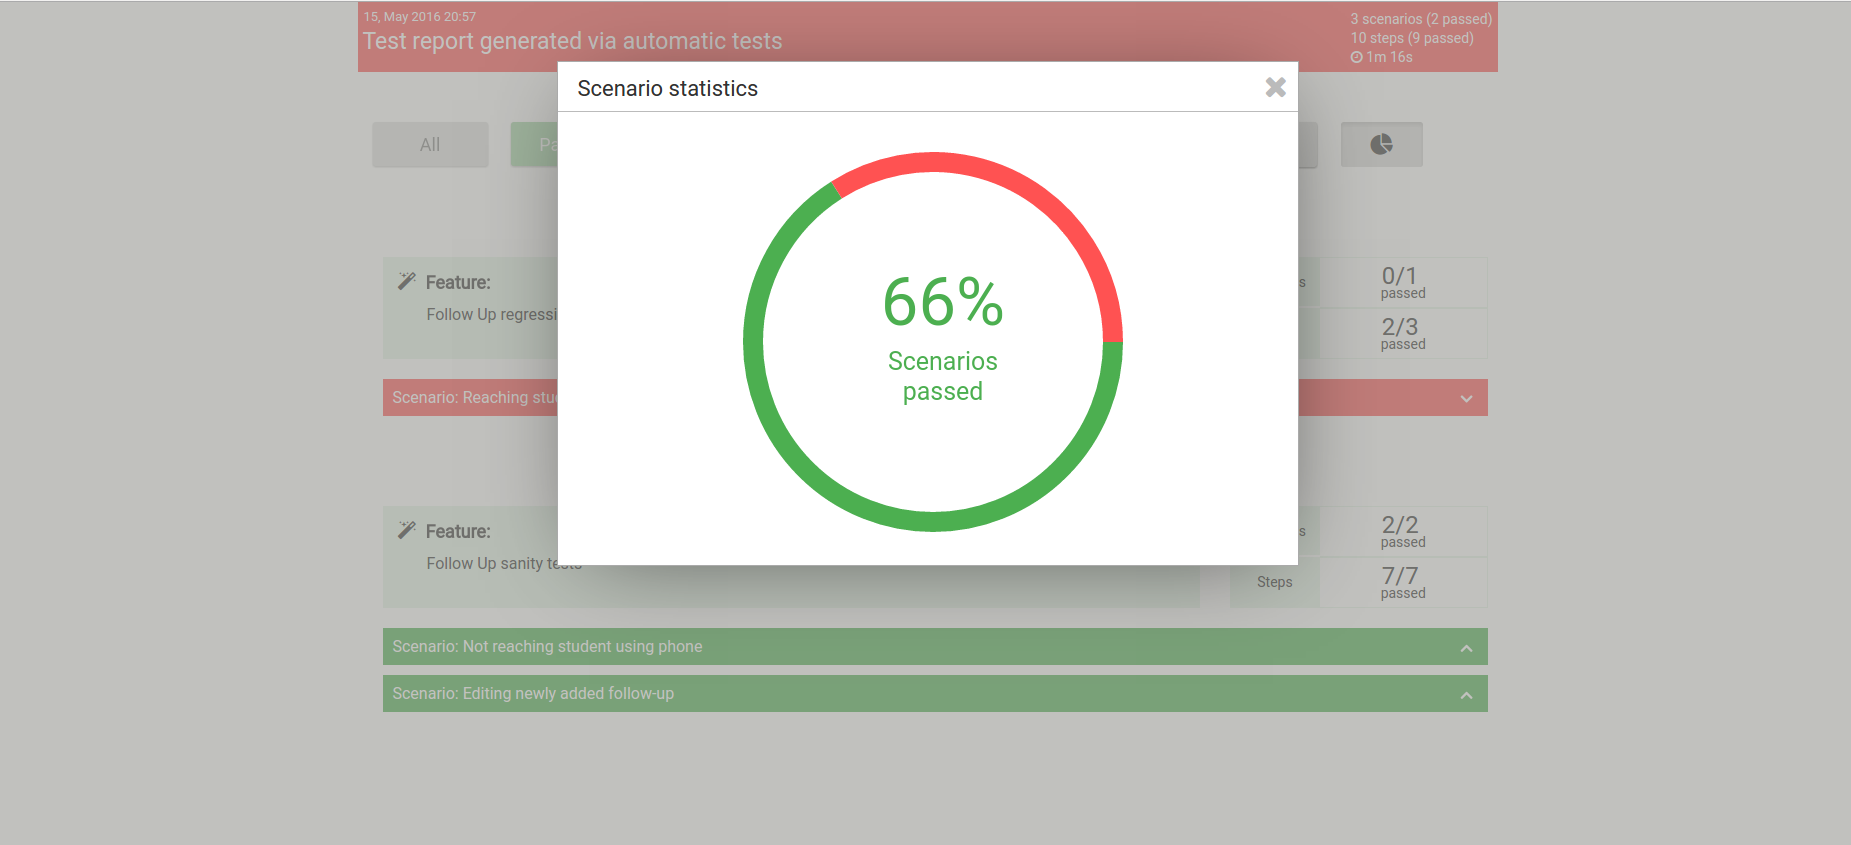
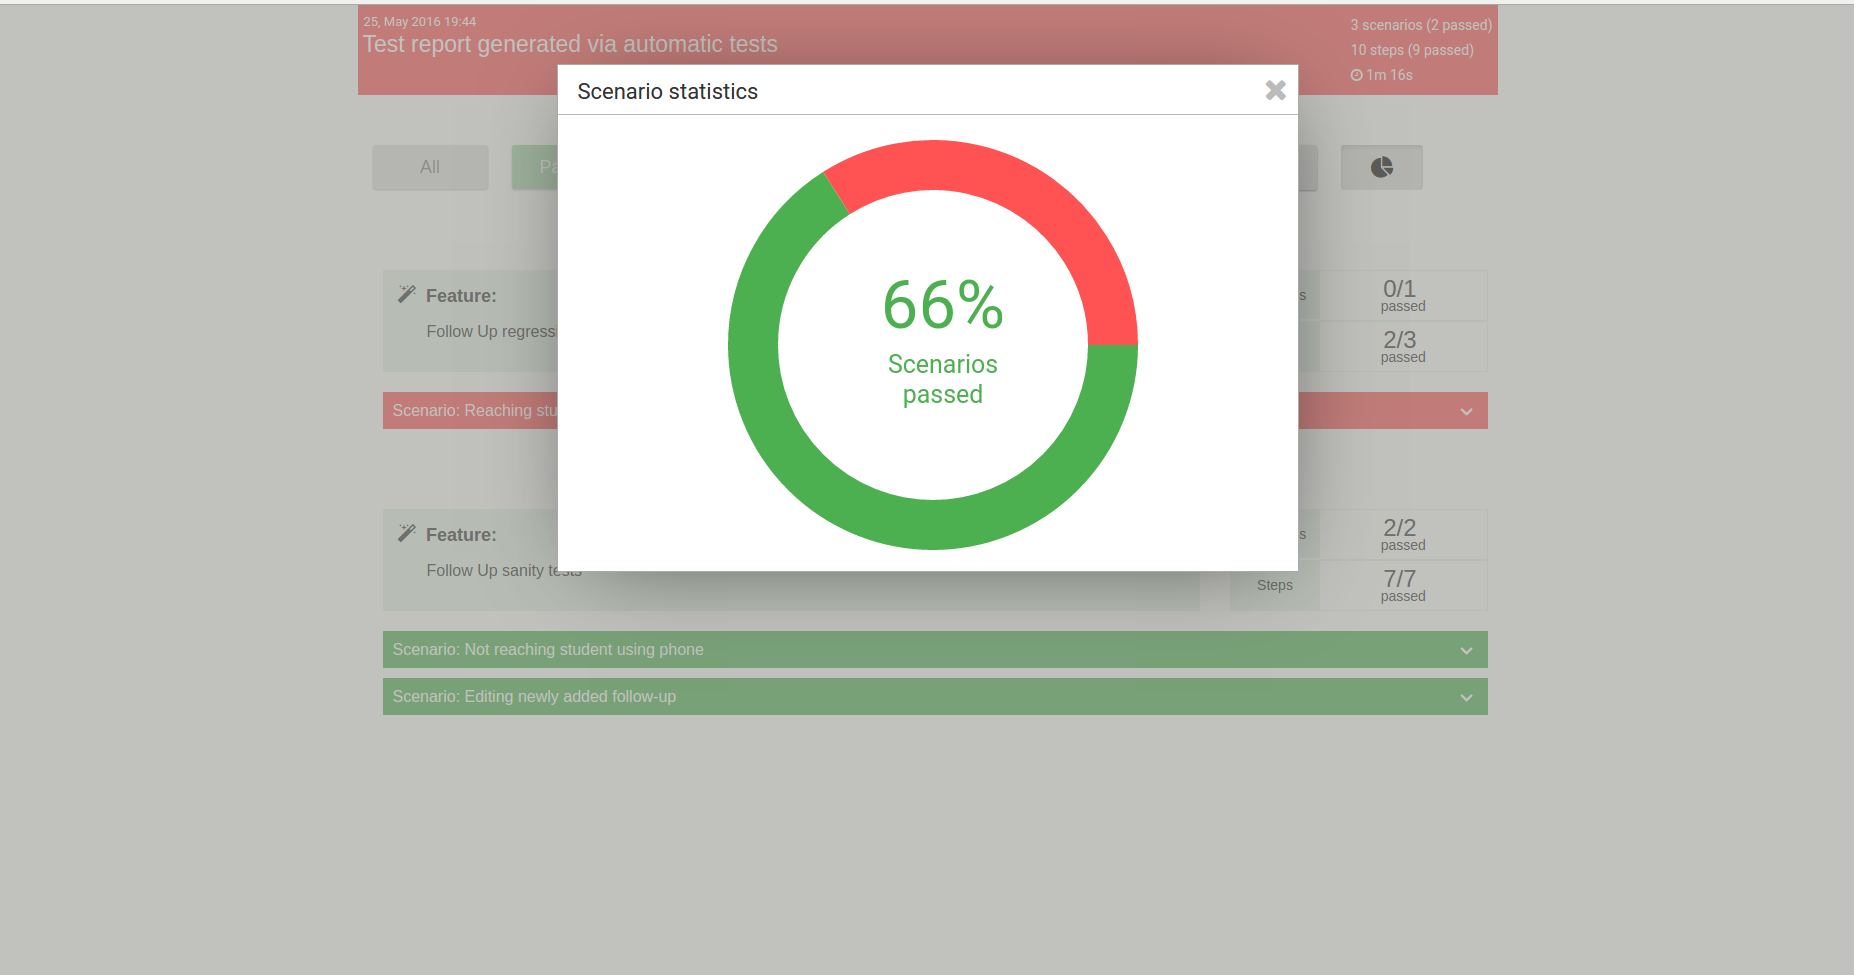
Seting default srtatistics for chart.

diff --git a/templates/assets/js/chart.js b/templates/assets/js/chart.js
@@ -1,181 +1,188 @@
 var app = app || {};
 
-app.chart  = (function () {
+app.chart = (function () {
+    return {
+        init: function () {
+            var canvas = document.getElementById("chart"),
+                chartCtx = canvas.getContext("2d"),
+                statistics = this.getStatistics(),
+                data = {
+                    numberOfParts: statistics.scenariosAmount,// total amount of scenarios
+                    parts: {"pt": [statistics.passed, statistics.failed]},//percentage of each parts
+                    colors: {"cs": ['#4CAF50', '#FF5252']}//color of each part
+                },
+                self = this,
+                chart,
+                passed = statistics.passed + '%',
+                failed = statistics.failed + '%',
+                chartContainer = document.querySelector('.scenario-chart');
 
-  return {
+            chart = new app.chart.Chart(chartCtx);
+            chart.set(230, 230, 180, 0, Math.PI * 2, 50, "blue");
+            chart.draw(data);
+            this.displayDefaultStatistics(chartCtx, passed, failed);
 
-    init: function () {
-      var canvas = document.getElementById("chart"),
-        chartCtx = canvas.getContext("2d"),
-        statistics = this.getStatistics(),
-        data = {
-          numberOfParts: statistics.scenariosAmount,// total amount of scenarios
-          parts: {"pt": [statistics.passed, statistics.failed]},//percentage of each parts
-          colors: {"cs": ['#4CAF50', "#FF5252"]}//color of each part
+            chartContainer.addEventListener('webkitAnimationEnd', this.onAnimationEnd, false);
+            chartContainer.addEventListener('animationend', this.onAnimationEnd, false);
+            chartContainer.addEventListener('oanimationEnd', this.onAnimationEnd, false);
+            chartContainer.addEventListener('MSAnimationEnd', this.onAnimationEnd, false);
+
+            canvas.onmousemove = function (e) {
+                var pos = self.findPos(this),
+                    x = e.pageX - pos.x,
+                    y = e.pageY - pos.y,
+                    c = this.getContext('2d'),
+                    p = c.getImageData(x, y, 1, 1).data,
+                    hex = "#" + ("000000" + self.rgbToHex(p[0], p[1], p[2])).slice(-6),
+
+                    /** Displaying text inside donut chart*/
+                    a = 240,
+                    b = 190;
+                chartCtx.font = '50pt Roboto';
+                chartCtx.textAlign = 'center';
+                chartCtx.fillStyle = hex;
+                var statistics = self.getStatistics(),
+                    passed = statistics.passed + '%',
+                    failed = statistics.failed + '%';
+                chartCtx.clearRect(120, 120, 200, 200);
+
+                if (hex.toLowerCase() === data.colors.cs[0].toLowerCase()) {
+                    chartCtx.fillText(passed, a, b);
+                    chartCtx.font = '25px Roboto';
+                    chartCtx.fillStyle = data.colors.cs[0];
+                    chartCtx.fillText("Scenarios", a, b + 60);
+                    chartCtx.fillText("passed", a, b + 90);
+                } else if (hex.toLowerCase() === data.colors.cs[1].toLowerCase()) {
+                    chartCtx.fillText(failed, a, b);
+                    chartCtx.font = '25px Roboto';
+                    chartCtx.fillStyle = data.colors.cs[1];
+                    chartCtx.fillText("Scenarios", a, b + 60);
+                    chartCtx.fillText("failed", a, b + 90);
+                } else {
+                    self.displayDefaultStatistics(chartCtx, passed, failed);
+                }
+                chartCtx.textBaseline = 'middle';
+            };
+
+            document.querySelector('.close_chart').onclick = this.toggleChart.bind(this);
+            document.querySelector('.document_container').onclick = this.toggleChart.bind(this);
         },
-        self = this,
-        chart;
+        displayDefaultStatistics: function (canvas, passedAmount, failedAmount) {
+            canvas.font = '50pt Roboto';
+            canvas.textAlign = 'center';
+            if (passedAmount >= failedAmount) {
+                canvas.fillStyle = '#4CAF50';
+                canvas.fillText(passedAmount, 240, 190);
+                canvas.font = '25px Roboto';
+                canvas.fillText("Scenarios", 240, 250);
+                canvas.fillText("passed", 240, 280);
+            } else {
+                canvas.fillStyle = '#FF5252';
+                canvas.fillText(failedAmount, 240, 190);
+                canvas.font = '25px Roboto';
+                canvas.fillText("Scenarios", 240, 250);
+                canvas.fillText("failed", 240, 280);
+            }
+        },
+        /** Transforming rgb colors into Hex */
+        rgbToHex: function (r, g, b) {
+            if (r > 255 || g > 255 || b > 255)
+                throw "Invalid color component";
+            return ((r << 16) | (g << 8) | b).toString(16);
+        },
+        /** Finding mouse position on chart */
+        findPos: function (obj) {
+            var curleft = 0, curtop = 0;
+            if (obj.offsetParent) {
+                do {
+                    curleft += obj.offsetLeft;
+                    curtop += obj.offsetTop;
+                } while (obj = obj.offsetParent);
+                return {x: curleft, y: curtop};
+            }
+        },
+        /** Animated displaying and hiding chart */
+        onAnimationEnd: function () {
+            var documentContainer = document.querySelector('.document_container');
+            if (documentContainer.classList.contains('backdrop-hidden')) {
+                documentContainer.classList.remove('backdrop-hidden');
+                documentContainer.style.display = 'none';
+            }
+            if (this.classList.contains('chart-hidden')) {
+                this.classList.remove('chart-hidden');
+                this.style.display = 'none';
+            }
+        },
+        Chart: function (canvas) {
+            this.x , this.y , this.radius , this.lineWidth , this.from, this.to = null;
+            this.set = function (x, y, radius, from, to, lineWidth) {
+                this.x = x;
+                this.y = y;
+                this.radius = radius;
+                this.from = from;
+                this.to = to;
+                this.lineWidth = lineWidth;
+            };
+            /** Drawing report chart */
 
-      chart = new app.chart.Chart(chartCtx);
-      chart.set(230, 230, 180, 0, Math.PI * 2, 50, "blue");
-      chart.draw(data);
+            this.draw = function (data) {
 
-      var chartContainer = document.querySelector('.scenario-chart');
+                canvas.beginPath();
+                canvas.lineWidth = this.lineWidth;
+                canvas.arc(this.x, this.y, this.radius, this.from, this.to);
+                canvas.strokeStyle = '#fff';
+                canvas.stroke();
+                var numberOfParts = data.numberOfParts;
+                var parts = data.parts.pt;
+                var colors = data.colors.cs;
+                var df = 0;
+                for (var i = 0; i <= numberOfParts; i++) {
+                    canvas.beginPath();
+                    canvas.strokeStyle = colors[i];
+                    canvas.arc(this.x, this.y, this.radius, df, df + (Math.PI * 2) * (parts[i] / 100));
+                    canvas.stroke();
+                    df += (Math.PI * 2) * (parts[i] / 100);
+                }
+            };
+        },
+        /** Passed and failed percentage */
+        getStatistics: function () {
+            var scenarioPassed = document.querySelectorAll('.scenario.passed').length,
+                scenarioFailed = document.querySelectorAll('.scenario.failed').length,
+                scenariosAmount = document.querySelectorAll('.scenario').length,
+                passed = (scenarioPassed / scenariosAmount) * 100,
+                failed = (scenarioFailed / scenariosAmount) * 100,
+                statistics;
 
-      chartContainer.addEventListener('webkitAnimationEnd', this.onAnimationEnd, false);
-      chartContainer.addEventListener('animationend', this.onAnimationEnd, false);
-      chartContainer.addEventListener('oanimationEnd', this.onAnimationEnd, false);
-      chartContainer.addEventListener('MSAnimationEnd', this.onAnimationEnd, false);
+            statistics = {
+                scenariosAmount: scenariosAmount,
+                passed: Math.round(Math.floor(passed)),
+                failed: Math.round(Math.ceil(failed))
+            };
 
-      canvas.onmousemove = function (e) {
-        var pos = self.findPos(this),
-          x = e.pageX - pos.x,
-          y = e.pageY - pos.y,
-          c = this.getContext('2d'),
-          p = c.getImageData(x, y, 1, 1).data,
-          hex = "#" + ("000000" + self.rgbToHex(p[0], p[1], p[2])).slice(-6);
+            return statistics;
+        },
 
-        /** Displaying text inside donut chart*/
-        var a = 240;
-        var b = 190;
-        chartCtx.font = '50pt Roboto';
-        chartCtx.textAlign = 'center';
-        chartCtx.fillStyle = hex;
-        var statistics = self.getStatistics(),
-            passed = statistics.passed,
-            passedRound = Math.round(passed) + "%",
-            failed = statistics.failed,
-            failedRound = Math.round(failed) + "%";
-        chartCtx.clearRect(120, 120, 200, 200);
-
-        if (hex.toLowerCase() === data.colors.cs[0].toLowerCase()) {
-          chartCtx.fillText(passedRound, a, b);
-          chartCtx.font = '25px Roboto';
-          chartCtx.fillStyle = data.colors.cs[0];
-          chartCtx.fillText("Scenarios", a, b + 60);
-          chartCtx.fillText("passed", a, b + 90);
-        } else if (hex.toLowerCase() === data.colors.cs[1].toLowerCase()) {
-          chartCtx.fillText(failedRound, a, b);
-          chartCtx.font = '25px Roboto';
-          chartCtx.fillStyle = data.colors.cs[1];
-          chartCtx.fillText("Scenarios", a, b + 60);
-          chartCtx.fillText("failed", a, b + 90);
-        } else {
-          chartCtx.fillText("", a, b);
+        toggleChartBackdrop: function () {
+            var documentContainer = document.querySelector('.document_container');
+            documentContainer.style.display = (documentContainer.style.display != 'block' ? 'block' : documentContainer.classList.add('backdrop-hidden'));
+        },
+        /** Displaying and hiding chart */
+        toggleChart: function () {
+            window.scrollTo(0, 0);
+            var chart = document.querySelector('.scenario-chart'),
+                chartBtn = document.querySelectorAll('.btn_chart');
+            if (chart.style.display != 'block') {
+                chart.style.display = 'block';
+                document.body.style.overflow = 'hidden';
+            } else {
+                chart.classList.add('chart-hidden');
+                document.body.style.overflow = 'auto';
+                app.navigation.removeActiveClass(chartBtn);
+            }
+            this.toggleChartBackdrop();
         }
-        chartCtx.textBaseline = 'middle';
-      };
-
-      document.querySelector('.close_chart').onclick = this.toggleChart.bind(this);
-      document.querySelector('.document_container').onclick = this.toggleChart.bind(this);
-    },
-    /** Transforming rgb colors into Hex */
-    rgbToHex: function (r, g, b) {
-      if (r > 255 || g > 255 || b > 255)
-        throw "Invalid color component";
-      return ((r << 16) | (g << 8) | b).toString(16);
-    },
-    /** Finding mouse position on chart */
-    findPos: function(obj) {
-      var curleft = 0, curtop = 0;
-      if (obj.offsetParent) {
-        do {
-          curleft += obj.offsetLeft;
-          curtop += obj.offsetTop;
-        } while (obj = obj.offsetParent);
-        return {x: curleft, y: curtop};
-      }
-    },
-    /** Animated displaying and hiding chart */
-    onAnimationEnd: function () {
-
-      var documentContainer = document.querySelector('.document_container');
-
-      if (documentContainer.classList.contains('backdrop-hidden')) {
-        documentContainer.classList.remove('backdrop-hidden');
-        documentContainer.style.display = 'none';
-      }
-
-      if (this.classList.contains('chart-hidden')) {
-        this.classList.remove('chart-hidden');
-        this.style.display = 'none';
-      }
-    },
-    Chart: function (canvas) {
-
-
-      this.x , this.y , this.radius , this.lineWidth , this.from, this.to = null;
-      this.set = function (x, y, radius, from, to, lineWidth) {
-        this.x = x;
-        this.y = y;
-        this.radius = radius;
-        this.from = from;
-        this.to = to;
-        this.lineWidth = lineWidth;
-      };
-      /** Drawing report chart */
-
-      this.draw = function (data) {
-
-        canvas.beginPath();
-        canvas.lineWidth = this.lineWidth;
-        canvas.arc(this.x, this.y, this.radius, this.from, this.to);
-        canvas.strokeStyle = '#fff';
-        canvas.stroke();
-        var numberOfParts = data.numberOfParts;
-        var parts = data.parts.pt;
-        var colors = data.colors.cs;
-        var df = 0;
-        for (var i = 0; i <= numberOfParts; i++) {
-          canvas.beginPath();
-          canvas.strokeStyle = colors[i];
-          canvas.arc(this.x, this.y, this.radius, df, df + (Math.PI * 2) * (parts[i] / 100));
-          canvas.stroke();
-          df += (Math.PI * 2) * (parts[i] / 100);
-        }
-      };
-    },
-    /** Passed and failed percentage */
-    getStatistics:function () {
-      var scenarioPassed = document.querySelectorAll('.scenario.passed').length,
-        scenarioFailed = document.querySelectorAll('.scenario.failed').length,
-        scenariosAmount = document.querySelectorAll('.scenario').length,
-        passed = (scenarioPassed / scenariosAmount) * 100,
-        failed = (scenarioFailed / scenariosAmount) * 100,
-        statistics;
-
-      statistics = {
-        scenariosAmount: scenariosAmount,
-        passed: Math.floor(passed),
-        failed: Math.ceil(failed)
-      };
-
-      return statistics;
-    },
-
-    toggleChartBackdrop: function () {
-      var documentContainer = document.querySelector('.document_container');
-      documentContainer.style.display = (documentContainer.style.display != 'block' ? 'block' : documentContainer.classList.add('backdrop-hidden'));
-    },
-    /** Displaying and hiding chart */
-    toggleChart: function () {
-      window.scrollTo(0, 0);
-      var chart = document.querySelector('.scenario-chart'),
-          chartBtn = document.querySelectorAll('.btn_chart');
-
-      if (chart.style.display != 'block' ) {
-        chart.style.display = 'block';
-        document.body.style.overflow = 'hidden';
-      } else {
-        chart.classList.add('chart-hidden');
-        document.body.style.overflow = 'auto';
-        app.navigation.removeActiveClass(chartBtn);
-      }
-
-      this.toggleChartBackdrop();
     }
-  }
-
 }());
 
 

diff --git a/templates/assets/css/style.css b/templates/assets/css/style.css
@@ -275,6 +275,14 @@ header {
   .scenario-amount-passed span, .steps-amount-passed span {
     font-size: 14px; }
 
+.scenario-chart.chart-hidden {
+  -webkit-animation-name: hide_chart;
+  -webkit-animation-duration: 0.3s;
+  -webkit-animation-timing-function: cubic-bezier(0.77, 0, 0.175, 1);
+  animation-name: hide_chart;
+  animation-duration: 0.3s;
+  animation-timing-function: cubic-bezier(0.77, 0, 0.175, 1); }
+
 .scenario-chart {
   text-align: center;
   display: none;
@@ -296,8 +304,6 @@ header {
   -webkit-animation-timing-function: cubic-bezier(0.77, 0, 0.175, 1);
   animation-name: display_chart;
   animation-duration: 0.5s; }
-  .scenario-chart.chart-hidden {
-    animation-timing-function: cubic-bezier(0.77, 0, 0.175, 1); }
 
 .steps-label {
   background: #E8F5E9; }
